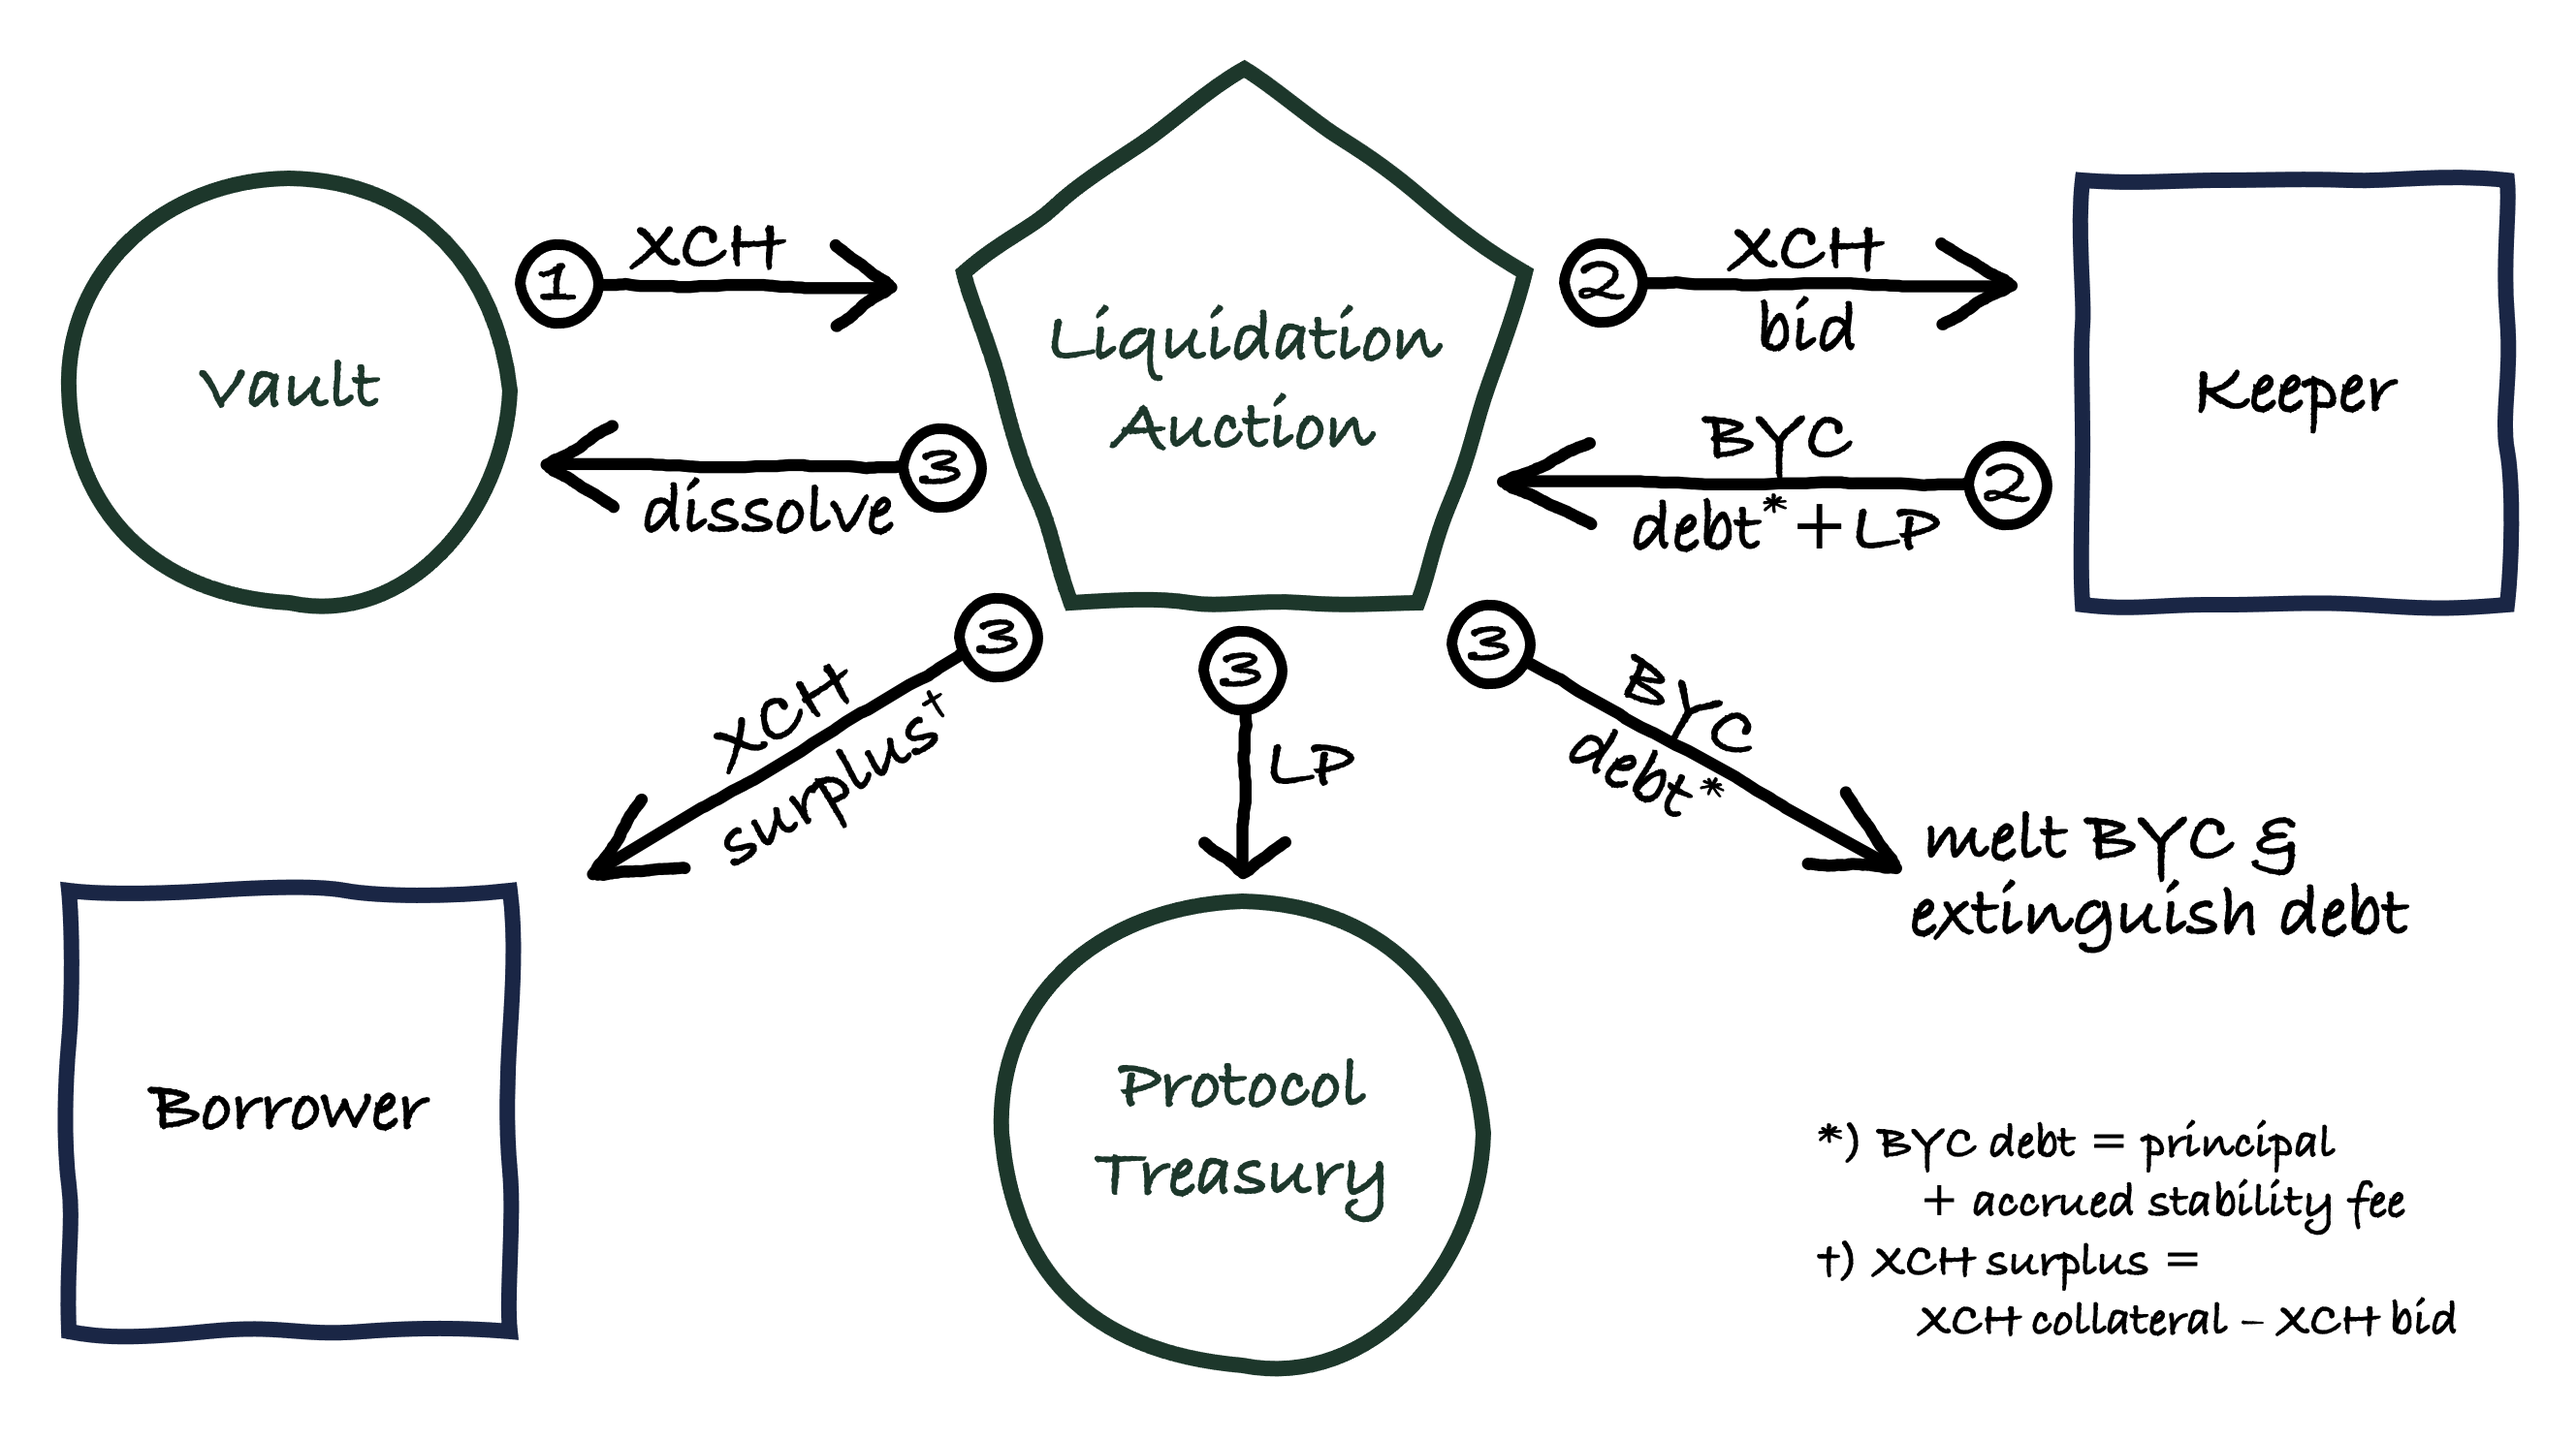
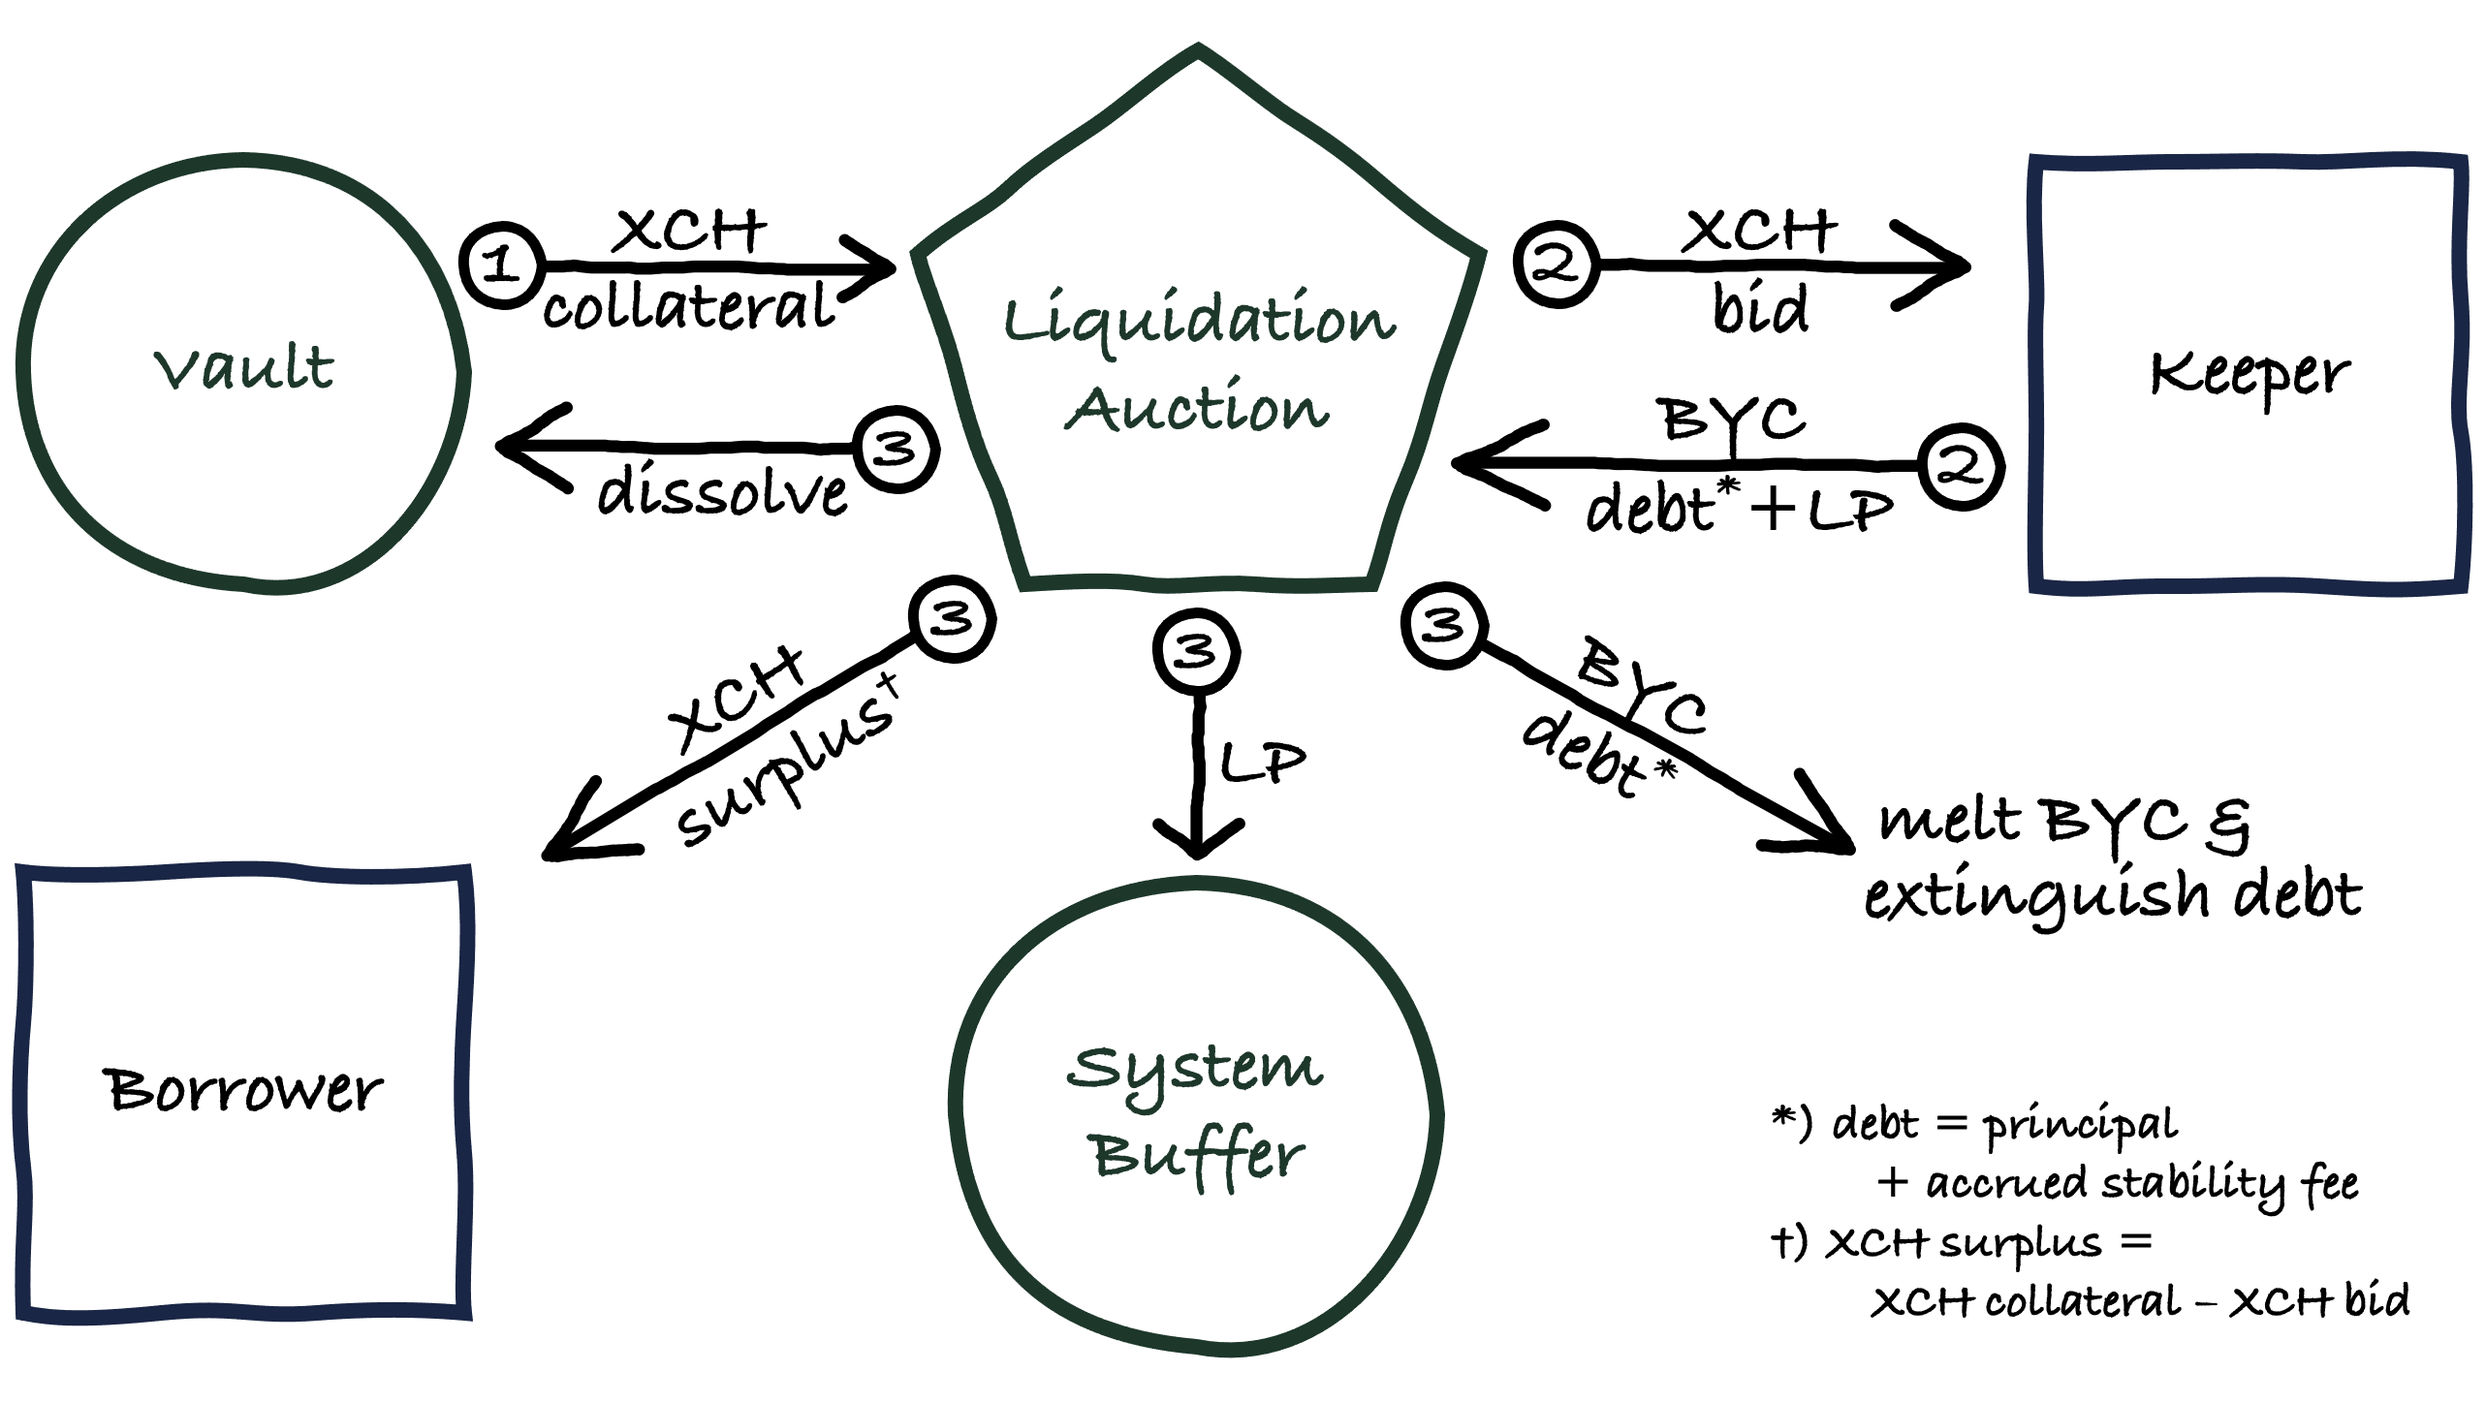
minor additions and improvements

diff --git a/docs/user-guide/liquidation.md b/docs/user-guide/liquidation.md
@@ -67,23 +67,23 @@ ALI and RLI are paid to the keeper once the liquidation auction has concluded. A
 
 ## Liquidation Auction
 
-Once a liquidation has been triggered, a liquidation auction starts in which the vault's XCH collateral is sold for BYC to recover the debt owed to the vault. Liquidation auctions are descending price auctions, also known as [Dutch auctions](https://en.wikipedia.org/wiki/Dutch_auction).
+Once a liquidation has been triggered, a liquidation auction starts in which the vault's collateral is sold for BYC to recover the debt owed to the vault. Liquidation auctions are descending price auctions, also known as [Dutch auctions](https://en.wikipedia.org/wiki/Dutch_auction).
 
-The purpose of a Liquidation Auction is to recover debt as quickly as possible to avoid an undercollateralization of the vault. Dutch auctions are particularly well suited for this. Firstly, because XCH is a fungible asset with a market price, one can let auctions start near the market price, as bidders would not pay above market price for a commoditized asset. This is different from auctions in which non-fungible assets such as artworks are sold, and it is impossible predict in advance how much a bidder might be willing to pay. Dutch auctions force keepers to submit a bid as soon as an acceptable price has been reached, as otherwise a bidder would most likely miss out to other bidders. There is no scope for tactical bidding behaviour(minimal price increases, or last minute bids) as is often the case with English (pay-as-bid) auctions. With Dutch auctions there is also no need to wait until enough bids to cover the entire debt have been submitted, before being able to determine winning bids. As soon as a bidder is happy with the current auction price, they can submit a bid for a all or part of the debt, which will immediately get accepted.
+The purpose of a Liquidation Auction is to recover debt as quickly as possible to avoid an undercollateralization of the vault. Dutch auctions are particularly well suited for this as they largely prevent tactical bidding and drawn out bidding wars. As soon as a bidder is happy with the latest auction price they can repay all or part of the outstanding debt at this price. Bids can be settled immediately as there is no need to wait for counter-offers as is the case with [English auctions](https://en.wikipedia.org/wiki/English_auction).
 
 ![Liquidation auction](./../../static/img/Liquidation_Auction_diagram.png)
 
 The auction starts with a **Start Price** (SP), calculated as the latest oracle price multiplied by the **Start Price Factor** (SPF). The SPF is a factor slightly greater than 100% to account for scenarios a potential rebound in the XCH market price by the time the auction starts.
 
-The auction price is lowered in according to a **Price Decrease** (PD) parameter. The Price Decrease is calculated as a percentage of the Start Price, and gets substracted from the latest auction price each time the auction price gets decreased.
+As the auction goes on, the auction price automatically decreases step-by-step every few blocks as defined by the **Price Validity** (PV) parameter.
 
-As the auction goes on, the price automatically decreases every few blocks as defined by the **Price Validity** (PV) parameter.
+The amount by which the auction price is lowered in each step is given by the **Price Decrease** (PD) parameter. The PD is calculated as a percentage of the Start Price, and gets substracted from the latest auction price.
 
 The auction ends when either
 * the vault's debt was fully repaid; or
 * the auction price drops below the **Minimum Auction Price** (MAP), which is defined as a **Minimum Price Factor** (MPF) multiplied by the Start Price.
 
-Start auction can be called after auctions end without collecting all BYC debt. This process can be repeated for up to 6 hours, at which point any remaining debt becomes bad debt.
+Liquidation Auctions can be restarted when they fail to recover the vault's entire debt. This process can be repeated multiple times, until the **Maximum Liquidation Duration** (MLD) is exceeded, at which point any remaining debt becomes Bad Debt.
 
 
 ### Bid
@@ -157,7 +157,13 @@ No new liquidations may be triggered during an Emergency Shutdown.
     * updatable: yes
     * votes required: XYZ CRT
     * considerations: A higher value might prevent the auction price from reaching a level at which keepers are willing to bid if the market price continues to fall. The primary risk of a low value is that collateral gets sold below market value if unusual conditions prevent keepers from bidding. Such conditions may include extreme transaction fees or clogged blocks, technical difficulties experienced by keepers participating in auctions, etc.
-
+* **Maximum Liquidation Duration (MLD)**
+    * recorded in: Statutes
+    * initial value: 6 hours
+    * updatable: yes
+    * votes required: XYZ CRT
+    * considerations: A higher value allows keepers more time to participate in a liquidation auction, but increases the risk that more bad debt accrues. However, if there are no keepers available to participate in liquidation auctions, it is unlikely that a bad debt auction will see bids.
+    
 <!--
 MakerDAO:
 * Supports different types of auction price function. linear step, exponential, and step exponential

diff --git a/docs/user-guide/vaults.md b/docs/user-guide/vaults.md
@@ -31,17 +31,18 @@ The loan-to-value (LTV) ratio determines how much BYC can be borrowed against th
 
 The Stability Fee can be thought of as an interest rate charged on BYC loans. It accrues per second on the outstanding principal. Because the SF applies to principal only and not to any accrued SFs, it doesn't compound.
 
-The SF is the primary mechanism by which BYC maintains its 1:1 peg to the US Dollar. If BYC trades at > 1 USD in the market, the price can be brought down by lowering the SF, so that borrowing BYC becomes more attractive, thereby increasing the BYC supply. If BYC trades at < 1 USD in the market, the SF can be increased in order to make holding BYC more expensive, encouring repayment of BYC loans, which tightens the supply and pushes up the price of BYC.
+The SF is the primary mechanism by which BYC maintains its 1:1 peg to the US Dollar.
 
-Given that supply-demand dynamics for BYC are driven by the market, the SF needs to be adjusted on an ongoing basis. For this reason, CircuitDAO will hold a monthly **risk call** in which market developments and the need for any SF adjustements will be discussed. A governance vote is held two days after each risk call to implement any changes to the SF.
+* If BYC trades at > 1 USD in the market, the price can be brought down by lowering the SF, so that borrowing BYC becomes more attractive, thereby increasing the BYC supply.
+* If BYC trades at < 1 USD in the market, the SF can be increased in order to make holding BYC more expensive, encouring repayment of BYC loans, which tightens the supply and pushes up the price of BYC.
+
+Given that supply-demand dynamics for BYC are driven by the market, the SF needs to be adjusted on an ongoing basis. For this reason, CircuitDAO will hold a monthly **risk call** in which market developments and the need for any SF adjustements will be discussed. A governance vote is held two days after the risk call to implement any changes to the SF.
 
 ## Repaying loans
 
 A borrower can repay their loans partially or fully by returning BYC plus a proportional share of the accrued SF to the vault.
 
 For example, if a vault is owed 1000 BYC in principal and has accrued 15 BYC in SFs, the borrower can reduce their loan balance by 25% by repaying 250 + 3.75 = 253.75 BYC.
-
-<!--Although the SF accrues in BYC as per the formula above, it must be paid in CRT tokens. The reason for this is that otherwise a borrower might not be able to find BYC in the market to pay the SF [TODO: move this to Notes section?].-->
 
 ![Repaying a BYC loan](./../../static/img/Repay_diagram.png)
 
@@ -53,12 +54,9 @@ If the value of the collateral in a vault drops below the liquidation threshold,
 
 For details on the liqudation process please see the [Liquidation](./liquidation) page.
 
-
 ## Vault constraints
 
-<!--The protocol charges a **Vault Creation Fee** (VCF) whenever a new vault is created. The fee protects the protocol against too many small vaults being as a way of spamming the system and resulting in excessive blockspace use in the case of liquidations.-->
-
-The protocol enforces a **minimum debt** (MD) that must be drawn when taking out a loan. This is to prevent too many small loans being taken out, which could be used as a form of attack on the protocol.
+The protocol enforces a **minimum debt** (MD) that must be drawn when taking out a loan. This prevents too many small loans being taken out, which could be used as a form of attack on the protocol by clogging up block space with liquidations.
 
 ## Notes
 
@@ -82,6 +80,9 @@ When a loan is taken out from a vault, the BYC borrowed is minted ad hoc by the 
     * updatable: yes
     * votes requied: XYZ CRT
     * considerations: Should be high enough so as to discourage spam attacks, in which an attacker creates many small vaults in the hope of them all getting liquidated at once, clogging up Chia block space, and preventing timely liquidation of vaults. The MD should also be large enough to prevent the harvesting of Absolute Liquidation Incentives, i.e. MD > AIL / Liquidation Penalty. Otherwise the MD should be kept as small as possible in order not prevent legitimate users from taking out small loans.
+
+
+<!--The protocol charges a **Vault Creation Fee** (VCF) whenever a new vault is created. The fee protects the protocol against too many small vaults being as a way of spamming the system and resulting in excessive blockspace use in the case of liquidations.-->
 
 <!--
 Other parameters used by MakerDAO:
